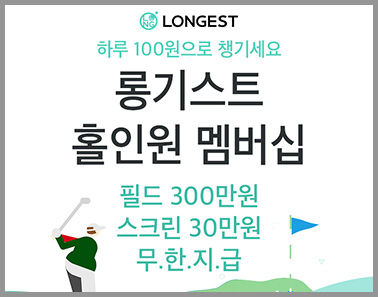
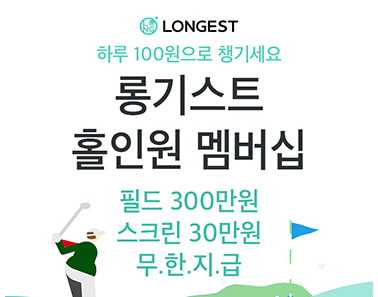
.

diff --git a/sub/marketingsolution/marketing.html b/sub/marketingsolution/marketing.html
@@ -341,7 +341,7 @@
                                     </div>
                                     <div class="swiper-slide">
                                         <div class="marketing cont10">
-                                            <img src="../../images/sub/mtt10.jpg?ver=2" />
+                                            <img src="../../images/sub/mtt10.jpg?ver=3" style="border-bottom: 1px solid #dcdcdc" />
                                             <div class="marketing_info_text">
                                                 <h2>한화생명보험</h2>
                                                 <p>
@@ -363,7 +363,7 @@
                                     </div>
                                     <div class="swiper-slide">
                                         <div class="marketing cont12">
-                                            <img src="../../images/sub/mtt12.jpg?ver=2" />
+                                            <img src="../../images/sub/mtt12.jpg?ver=3" style="border-bottom: 1px solid #dcdcdc" />
                                             <div class="marketing_info_text">
                                                 <h2>롱기스트</h2>
                                                 <p>

diff --git a/m/sub/marketingsolution/marketing.html b/m/sub/marketingsolution/marketing.html
@@ -384,7 +384,7 @@
                             <div class="swiper-slide">
                                 <div class="marketing">
                                     <a href="marketing10.html" >
-                                        <img src="../../images/sub/mtt10.jpg?ver=2" />
+                                        <img src="../../images/sub/mtt10.jpg?ver=3" style="border-bottom: 1px solid #dcdcdc" />
                                         <div class="marketing_info_text">
                                             <h2>한화생명보험</h2>
                                             <p>
@@ -410,7 +410,7 @@
                             <div class="swiper-slide">
                                 <div class="marketing">
                                     <a href="marketing12.html" >
-                                        <img src="../../images/sub/mtt12.jpg?ver=2" />
+                                        <img src="../../images/sub/mtt12.jpg?ver=3" style="border-bottom: 1px solid #dcdcdc" />
                                         <div class="marketing_info_text">
                                             <h2>롱기스트</h2>
                                             <p>
